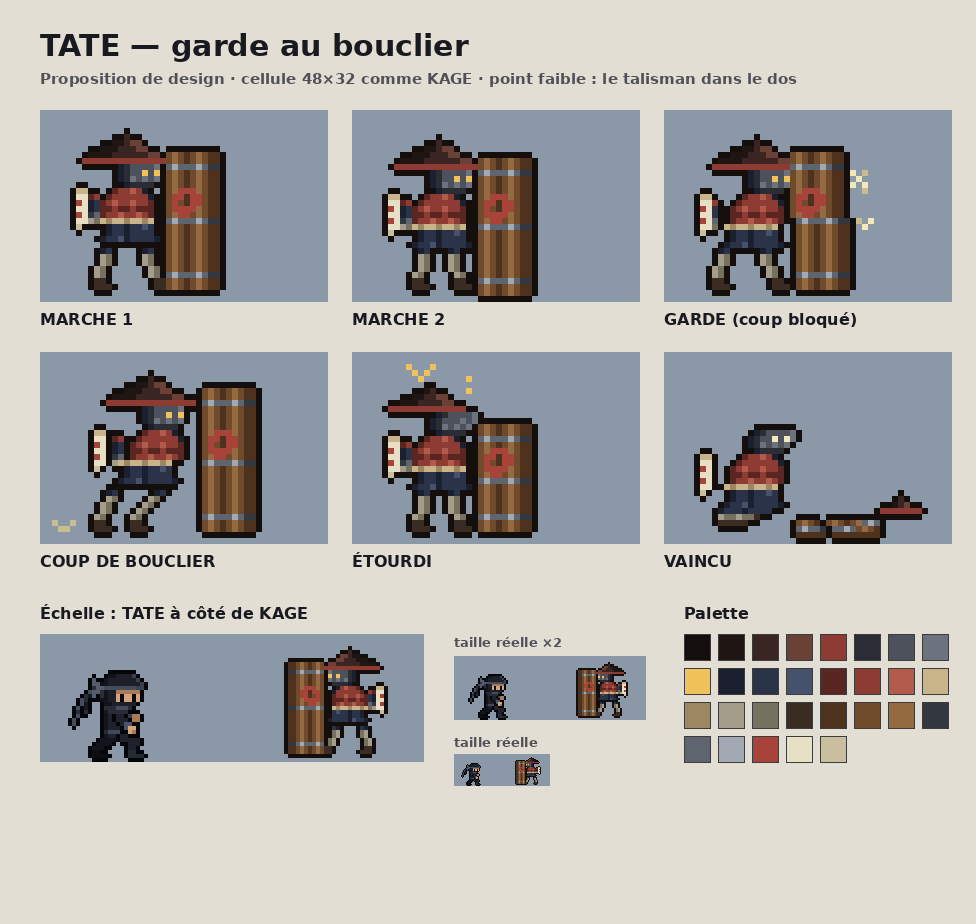
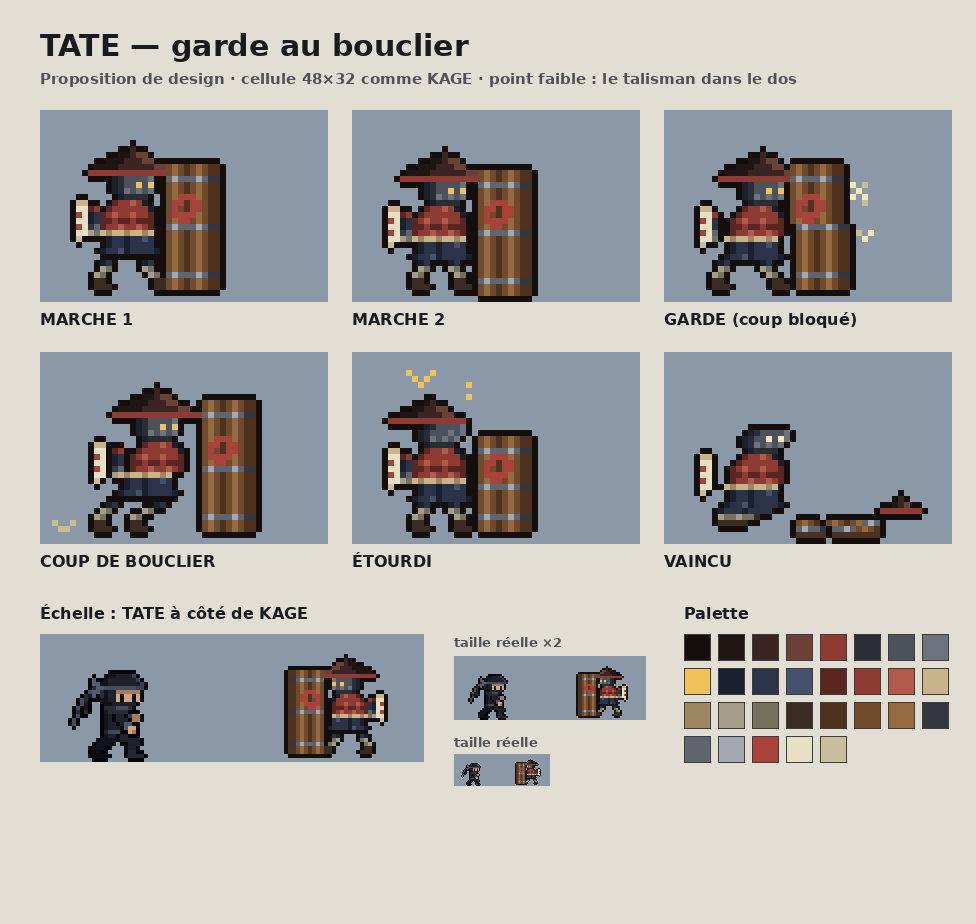
TATE : jambes plus courtes, tête dans l'axe du cou
Claude-Session: https://claude.ai/code/session_01A2iwx7NWoejJEVHcLK4ZCR

diff --git a/tools/kage_forge/enemies/tate.py b/tools/kage_forge/enemies/tate.py
@@ -111,13 +111,11 @@ def body(cv, x, y, lean=0):
 
 
 def legs(cv, x, y, phase=0):
-    """Jambes larges, guêtres claires, sandales ; phase = 0 / 1 (marche)."""
+    """Jambes courtes et larges (pas lourd), guêtres claires, sandales ; phase = 0 / 1."""
     if phase == 0:
         cv.block(x, y, [
             ".cC.....cC..",
             ".gG.....gG..",
-            ".gG.....gG..",
-            "gG.......gG.",
             "gG.......gG.",
             "ss........ss",
             "sss.......sss",
@@ -125,8 +123,6 @@ def legs(cv, x, y, phase=0):
     else:
         cv.block(x, y, [
             "..cC...cC...",
-            "..gG...gG...",
-            "..gG...gG...",
             "..gG...gG...",
             ".gG.....gG..",
             ".ss.....ss..",
@@ -145,49 +141,47 @@ def back_arm(cv, x, y, raised=False):
 def walk(phase):
     cv = Canvas()
     bob = 1 if phase else 0
-    legs(cv, 9, 23, phase)
-    back_arm(cv, 8, 14 + bob)
-    body(cv, 10, 13 + bob)
-    cv.block(6, 13 + bob, TALISMAN)
-    cv.block(12, 9 + bob, HEAD)
-    cv.block(7, 4 + bob, HAT)
-    shield(cv, 21, 7 + bob)
+    legs(cv, 9, 25, phase)
+    back_arm(cv, 8, 16 + bob)
+    body(cv, 10, 15 + bob)
+    cv.block(6, 15 + bob, TALISMAN)
+    cv.block(11, 11 + bob, HEAD)          # tête dans l'axe du cou
+    cv.block(8, 6 + bob, HAT)
+    shield(cv, 21, 9 + bob, h=21)
     return cv.outline()
 
 
 def guard():
     """Coup bloqué : le bouclier encaisse, étincelles devant, buste arc-bouté."""
     cv = Canvas()
-    legs(cv, 8, 23, 0)
-    back_arm(cv, 7, 15)
-    body(cv, 10, 14, lean=1)
-    cv.block(6, 14, TALISMAN)
-    cv.block(13, 10, HEAD)
-    cv.block(8, 5, HAT)
-    shield(cv, 22, 7, tilt=-1)
-    cv.block(31, 10, ["X.x", ".X.", "X.X", "..x"])
-    cv.block(32, 18, ["x.X", ".X."])
+    legs(cv, 8, 25, 0)
+    back_arm(cv, 7, 17)
+    body(cv, 10, 16, lean=1)
+    cv.block(6, 16, TALISMAN)
+    cv.block(12, 12, HEAD)
+    cv.block(9, 7, HAT)
+    shield(cv, 22, 9, h=21, tilt=-1)
+    cv.block(31, 12, ["X.x", ".X.", "X.X", "..x"])
+    cv.block(32, 20, ["x.X", ".X."])
     return cv.outline()
 
 
 def bash():
     """Coup de bouclier : il se jette en avant, bouclier projeté, poussière."""
     cv = Canvas()
-    cv.block(9, 23, [
+    cv.block(9, 25, [
         "..cC......cC",
-        "..gG.....gG.",
         ".gG.....gG..",
-        ".gG....gG...",
         "gG....gG....",
         "ss....ss....",
         "sss...sss...",
     ])
-    back_arm(cv, 12, 14)
-    body(cv, 13, 13, lean=2)
-    cv.block(9, 13, TALISMAN)
-    cv.block(16, 9, HEAD)
-    cv.block(11, 4, HAT)
-    shield(cv, 27, 6, h=24)
+    back_arm(cv, 12, 16)
+    body(cv, 13, 15, lean=2)
+    cv.block(9, 15, TALISMAN)
+    cv.block(15, 11, HEAD)
+    cv.block(12, 6, HAT)
+    shield(cv, 27, 8, h=22)
     cv.block(2, 28, ["x..x", ".xx."])
     return cv.outline()
 
@@ -195,15 +189,15 @@ def bash():
 def stunned():
     """Étourdi après un coup de bouclier raté : chapeau de travers, bouclier bas."""
     cv = Canvas()
-    legs(cv, 9, 23, 1)
-    back_arm(cv, 8, 15)
-    body(cv, 10, 14)
-    cv.block(6, 14, TALISMAN)
-    cv.block(12, 10, ["..cmMMMMn", ".cmMMMnMn", ".cmnMnMn.", "..cmmmm.."])
-    cv.block(6, 6, ["......jJ........", "....jjJJii......", "..jjjJJJJii.....", "rrrrrrrrrrrrr..."])
-    shield(cv, 21, 12, h=18)
-    cv.block(9, 2, ["Z...Z", ".Z.Z.", "..Z.."])
-    cv.block(19, 4, ["Z", ".", "Z"])
+    legs(cv, 9, 25, 1)
+    back_arm(cv, 8, 17)
+    body(cv, 10, 16)
+    cv.block(6, 16, TALISMAN)
+    cv.block(10, 12, ["..cmMMMMn", ".cmMMMnMn", ".cmnMnMn.", "..cmmmm.."])
+    cv.block(6, 8, ["......jJ........", "....jjJJii......", "..jjjJJJJii.....", "rrrrrrrrrrrrr..."])
+    shield(cv, 21, 14, h=16)
+    cv.block(9, 3, ["Z...Z", ".Z.Z.", "..Z.."])
+    cv.block(19, 5, ["Z", ".", "Z"])
     return cv.outline()
 
 
@@ -217,7 +211,7 @@ def defeated():
     ])
     body(cv, 10, 17, lean=1)
     cv.block(6, 17, TALISMAN)
-    cv.block(13, 13, ["..cmMMMMn", ".cmMMXMXn", ".cmnMnMn.", "..cmmmm.."])
+    cv.block(12, 13, ["..cmMMMMn", ".cmMMXMXn", ".cmnMnMn.", "..cmmmm.."])
     # bouclier tombé à plat, fendu
     cv.put(22, 28, "VvVw.VvVwVvBRB")
     cv.put(22, 29, "BRBBb.BBRBVvVw")
